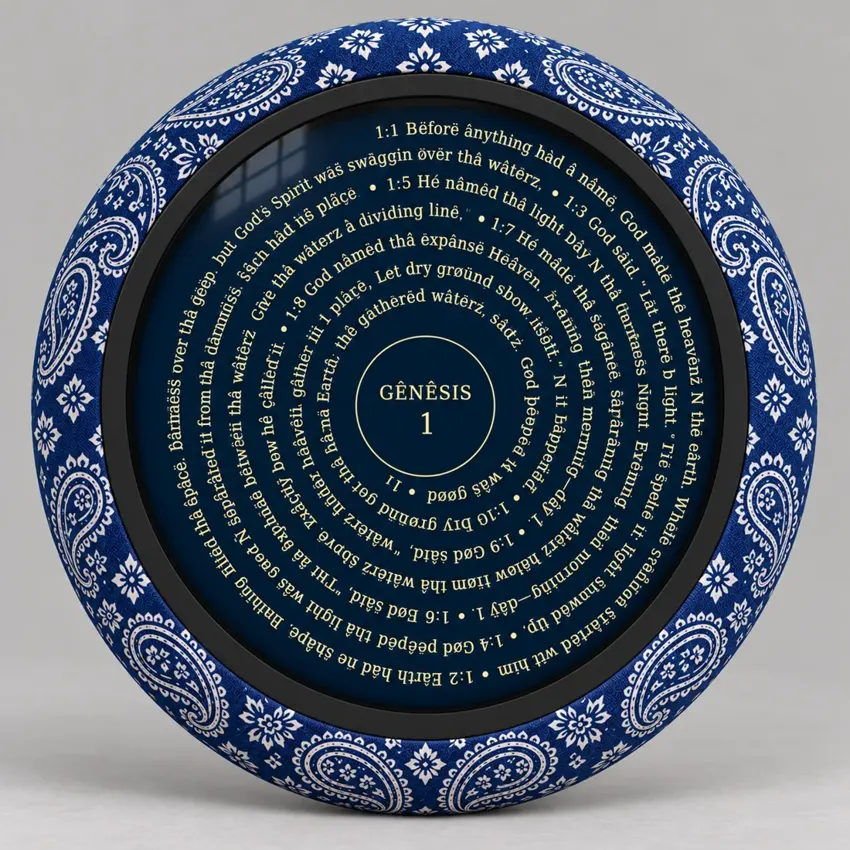
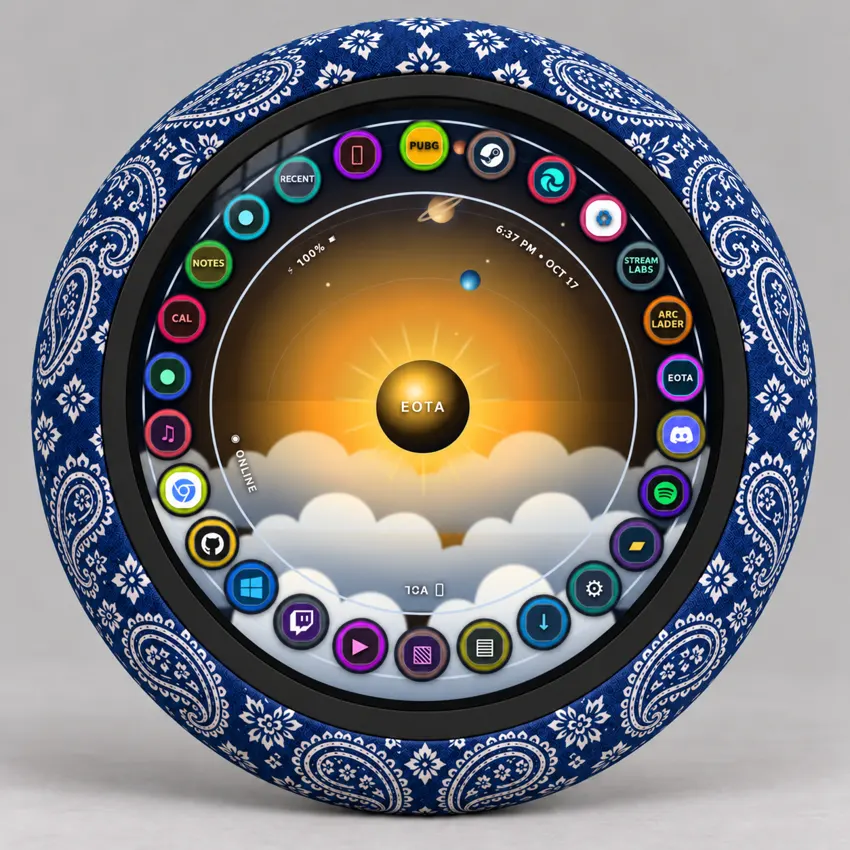
Show EOTA Desktop on tablet fronts and remove incorrect rear plugs

diff --git a/index.html b/index.html
@@ -327,7 +327,7 @@ gtag('config', 'G-7KW40PVYLH');
 
 <figure aria-label="Holy Bible EOTA Scrolbook" style="max-width:1000px;margin:24px auto;color:#fff;background:#092534;padding:12px;border-radius:20px;box-sizing:border-box">
 <h2 aria-label="Holy Bible, EOTA Version" style="text-align:center;margin:4px 0 16px;font-size:clamp(22px,4vw,36px);line-height:1.35;color:#fff"><span style="display:block;font-weight:700;letter-spacing:.035em">𝐇𝐎𝐋𝐘 𝐁𝐈𝐁𝐋𝐄</span><span style="display:block;margin-top:8px;font-size:.64em;letter-spacing:.08em">𝐄𝐎𝐓𝐀 𝐕𝐄𝐑𝐒𝐈𝐎𝐍</span></h2>
-<style>.eota-tablet-pair{display:grid;grid-template-columns:repeat(2,minmax(0,1fr));gap:12px;margin-top:12px;align-items:start}.eota-tablet-pair img{aspect-ratio:1/1;object-fit:cover;object-position:center;min-width:0}@media(max-width:600px){.eota-tablet-pair{grid-template-columns:1fr}}</style><div class="eota-tablet-pair" aria-label="blue bandanna tablet front and back"><img src="/assets/eota-round-tablet-blue-front.webp?v=20261017" width="1100" height="1100" loading="lazy" decoding="async" alt="blue bandanna EOTA circular tablet front concept" style="display:block;width:100%;height:auto;border-radius:12px"><img src="/assets/eota-round-tablet-blue-back.webp?v=20261017-bottom-edge" width="1100" height="1100" loading="lazy" decoding="async" alt="blue bandanna EOTA circular tablet back concept" style="display:block;width:100%;height:auto;border-radius:12px"></div><div class="eota-tablet-pair" aria-label="red bandanna tablet front and back"><img src="/assets/eota-round-tablet-red-front.webp?v=20261017" width="1100" height="1100" loading="lazy" decoding="async" alt="red bandanna EOTA circular tablet front concept" style="display:block;width:100%;height:auto;border-radius:12px"><img src="/assets/eota-round-tablet-red-back.webp?v=20261017-bottom-edge" width="1100" height="1100" loading="lazy" decoding="async" alt="red bandanna EOTA circular tablet back concept" style="display:block;width:100%;height:auto;border-radius:12px"></div>
+<style>.eota-tablet-pair{display:grid;grid-template-columns:repeat(2,minmax(0,1fr));gap:12px;margin-top:12px;align-items:start}.eota-tablet-pair img{aspect-ratio:1/1;object-fit:cover;object-position:center;min-width:0}@media(max-width:600px){.eota-tablet-pair{grid-template-columns:1fr}}</style><div class="eota-tablet-pair" aria-label="blue bandanna tablet front and back"><img src="/assets/eota-round-tablet-blue-front.webp?v=20261017-desktop" width="1100" height="1100" loading="lazy" decoding="async" alt="blue bandanna EOTA circular tablet showing EOTA Desktop concept" style="display:block;width:100%;height:auto;border-radius:12px"><img src="/assets/eota-round-tablet-blue-back.webp?v=20261017-rear-corrected" width="1100" height="1100" loading="lazy" decoding="async" alt="blue bandanna EOTA circular tablet back concept" style="display:block;width:100%;height:auto;border-radius:12px"></div><div class="eota-tablet-pair" aria-label="red bandanna tablet front and back"><img src="/assets/eota-round-tablet-red-front.webp?v=20261017-desktop" width="1100" height="1100" loading="lazy" decoding="async" alt="red bandanna EOTA circular tablet showing EOTA Desktop concept" style="display:block;width:100%;height:auto;border-radius:12px"><img src="/assets/eota-round-tablet-red-back.webp?v=20261017-rear-corrected" width="1100" height="1100" loading="lazy" decoding="async" alt="red bandanna EOTA circular tablet back concept" style="display:block;width:100%;height:auto;border-radius:12px"></div>
 </figure>
 <section aria-label="YouTube video below the Scrollbook" style="max-width:1000px;margin:32px auto;padding:24px;background:#092534;border:1px solid #416b79;border-radius:20px;color:#fff;box-sizing:border-box">
 <div style="position:relative;width:100%;aspect-ratio:16/9;background:#000;border-radius:12px;overflow:hidden">

diff --git a/scrollbook.html b/scrollbook.html
@@ -327,7 +327,7 @@ gtag('config', 'G-7KW40PVYLH');
 
 <figure aria-label="Holy Bible EOTA Scrolbook" style="max-width:1000px;margin:24px auto;color:#fff;background:#092534;padding:12px;border-radius:20px;box-sizing:border-box">
 <h2 aria-label="Holy Bible, EOTA Version" style="text-align:center;margin:4px 0 16px;font-size:clamp(22px,4vw,36px);line-height:1.35;color:#fff"><span style="display:block;font-weight:700;letter-spacing:.035em">𝐇𝐎𝐋𝐘 𝐁𝐈𝐁𝐋𝐄</span><span style="display:block;margin-top:8px;font-size:.64em;letter-spacing:.08em">𝐄𝐎𝐓𝐀 𝐕𝐄𝐑𝐒𝐈𝐎𝐍</span></h2>
-<style>.eota-tablet-pair{display:grid;grid-template-columns:repeat(2,minmax(0,1fr));gap:12px;margin-top:12px;align-items:start}.eota-tablet-pair img{aspect-ratio:1/1;object-fit:cover;object-position:center;min-width:0}@media(max-width:600px){.eota-tablet-pair{grid-template-columns:1fr}}</style><div class="eota-tablet-pair" aria-label="blue bandanna tablet front and back"><img src="/assets/eota-round-tablet-blue-front.webp?v=20261017" width="1100" height="1100" loading="lazy" decoding="async" alt="blue bandanna EOTA circular tablet front concept" style="display:block;width:100%;height:auto;border-radius:12px"><img src="/assets/eota-round-tablet-blue-back.webp?v=20261017-bottom-edge" width="1100" height="1100" loading="lazy" decoding="async" alt="blue bandanna EOTA circular tablet back concept" style="display:block;width:100%;height:auto;border-radius:12px"></div><div class="eota-tablet-pair" aria-label="red bandanna tablet front and back"><img src="/assets/eota-round-tablet-red-front.webp?v=20261017" width="1100" height="1100" loading="lazy" decoding="async" alt="red bandanna EOTA circular tablet front concept" style="display:block;width:100%;height:auto;border-radius:12px"><img src="/assets/eota-round-tablet-red-back.webp?v=20261017-bottom-edge" width="1100" height="1100" loading="lazy" decoding="async" alt="red bandanna EOTA circular tablet back concept" style="display:block;width:100%;height:auto;border-radius:12px"></div>
+<style>.eota-tablet-pair{display:grid;grid-template-columns:repeat(2,minmax(0,1fr));gap:12px;margin-top:12px;align-items:start}.eota-tablet-pair img{aspect-ratio:1/1;object-fit:cover;object-position:center;min-width:0}@media(max-width:600px){.eota-tablet-pair{grid-template-columns:1fr}}</style><div class="eota-tablet-pair" aria-label="blue bandanna tablet front and back"><img src="/assets/eota-round-tablet-blue-front.webp?v=20261017-desktop" width="1100" height="1100" loading="lazy" decoding="async" alt="blue bandanna EOTA circular tablet showing EOTA Desktop concept" style="display:block;width:100%;height:auto;border-radius:12px"><img src="/assets/eota-round-tablet-blue-back.webp?v=20261017-rear-corrected" width="1100" height="1100" loading="lazy" decoding="async" alt="blue bandanna EOTA circular tablet back concept" style="display:block;width:100%;height:auto;border-radius:12px"></div><div class="eota-tablet-pair" aria-label="red bandanna tablet front and back"><img src="/assets/eota-round-tablet-red-front.webp?v=20261017-desktop" width="1100" height="1100" loading="lazy" decoding="async" alt="red bandanna EOTA circular tablet showing EOTA Desktop concept" style="display:block;width:100%;height:auto;border-radius:12px"><img src="/assets/eota-round-tablet-red-back.webp?v=20261017-rear-corrected" width="1100" height="1100" loading="lazy" decoding="async" alt="red bandanna EOTA circular tablet back concept" style="display:block;width:100%;height:auto;border-radius:12px"></div>
 </figure>
 <section aria-label="YouTube video below the Scrollbook" style="max-width:1000px;margin:32px auto;padding:24px;background:#092534;border:1px solid #416b79;border-radius:20px;color:#fff;box-sizing:border-box">
 <div style="position:relative;width:100%;aspect-ratio:16/9;background:#000;border-radius:12px;overflow:hidden">
